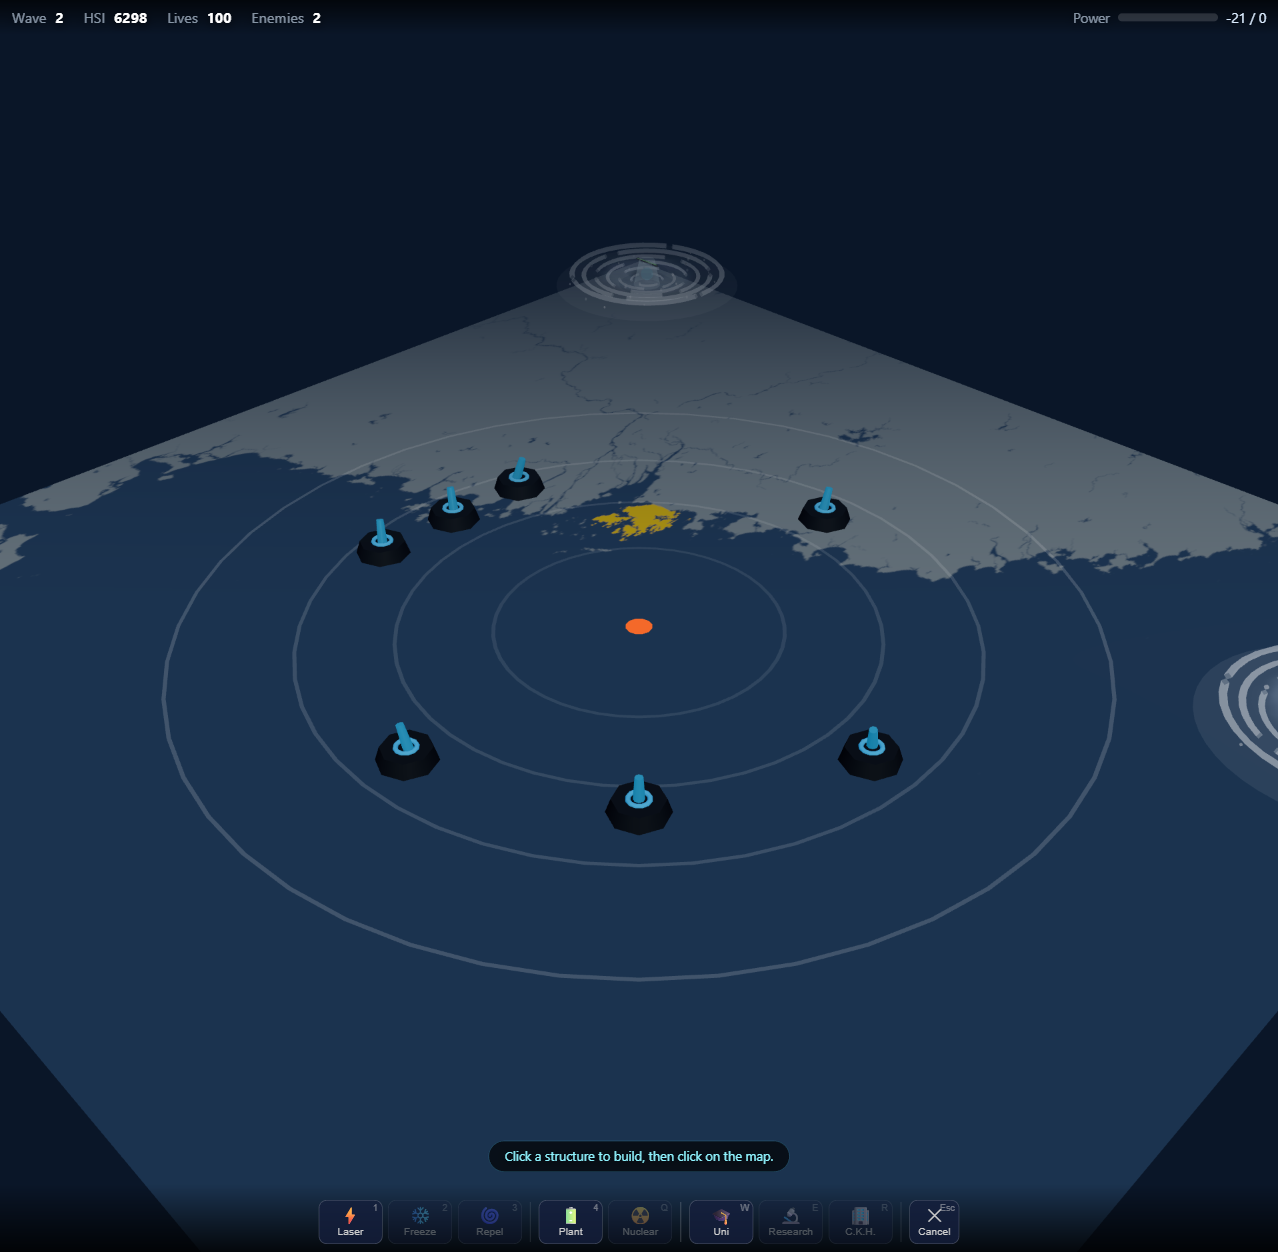
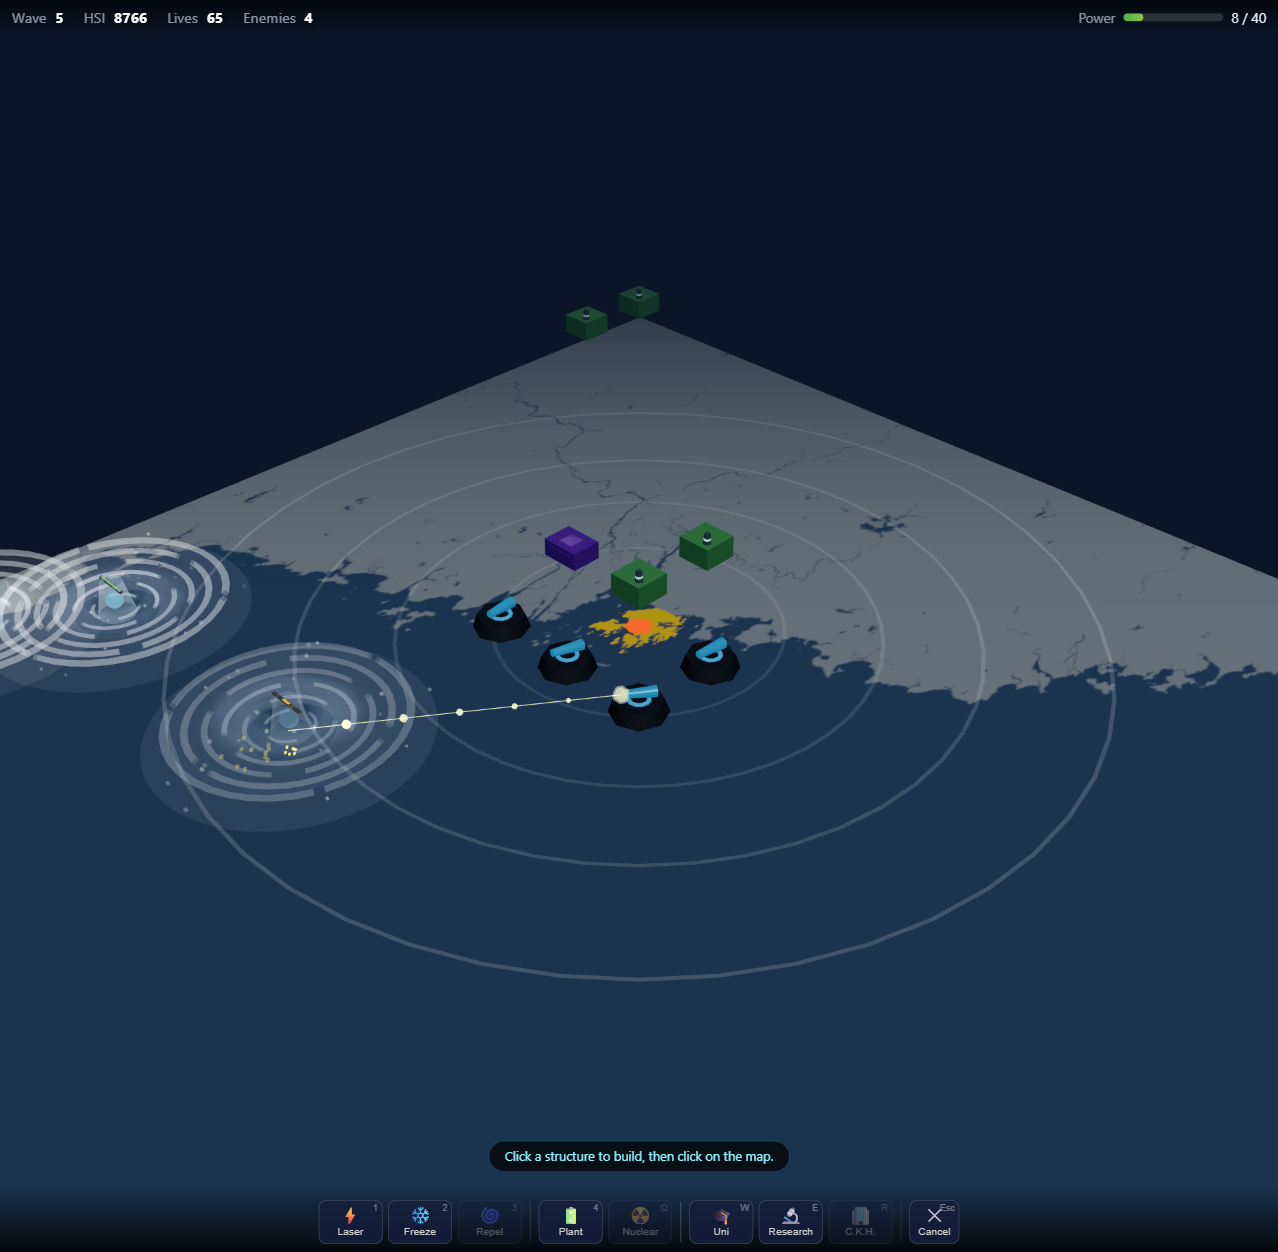
Fix laser beam origin and eliminate expansion artifact
Root cause: beam started at tower center (y=0.8) instead of the
rotated barrel tip, creating a visually disconnected beam. Scaling
applied to ALL effects (1x->3x) made CylinderGeometry and glow spheres
appear to expand backward past the turret.

Fixes:
- Compute actual barrel tip position (barrel_center + 0.35 * targetDir)
  using the same math as barrel rotation and spawnLaserMuzzle
- Replace CylinderGeometry (centered at midpoint, always extends
  len/2 in both directions) with THREE.Line (strictly start->end)
- Add _laserBeam flag to skip default scaling in updateEffects
- Update screenshots reflecting current game state
LLM-Model: deepseek-v4-flash-free

diff --git a/games/typhoon-tycoon/main.js b/games/typhoon-tycoon/main.js
@@ -873,9 +873,20 @@ function fireProjectile(tower) {
   if (!target || !target.alive) return;
 
   if (tower.type === 'LaserTower') {
-    // Beam from tower center (elevated to barrel height) → target center
-    // Using tower center guarantees the beam always connects the tower to the target
-    spawnLaserBeam(tower.wx, 0.8, tower.wz, target.x, 1.0, target.z, 0xffeb3b);
+    // Compute barrel tip = barrel center + 0.35 * targetDir
+    // targetDir = normalize(dx, 0.55, dz) where 0.55 = target Y(1.0) - barrel center Y(0.45)
+    // Same computation used in spawnLaserMuzzle and updateTowers barrel rotation
+    const dx = target.x - tower.wx;
+    const dz = target.z - tower.wz;
+    const aimDist = Math.sqrt(dx * dx + 0.55 * 0.55 + dz * dz);
+    if (aimDist > 0.01) {
+      const bx = tower.wx + 0.35 * dx / aimDist;
+      const by = 0.45 + 0.35 * 0.55 / aimDist;
+      const bz = tower.wz + 0.35 * dz / aimDist;
+      spawnLaserBeam(bx, by, bz, target.x, 1.0, target.z, 0xffeb3b);
+    } else {
+      spawnLaserBeam(tower.wx, 0.5, tower.wz, target.x, 1.0, target.z, 0xffeb3b);
+    }
 
     // Muzzle flash at barrel tip (computed from barrel rotation)
     spawnLaserMuzzle(tower, target);
